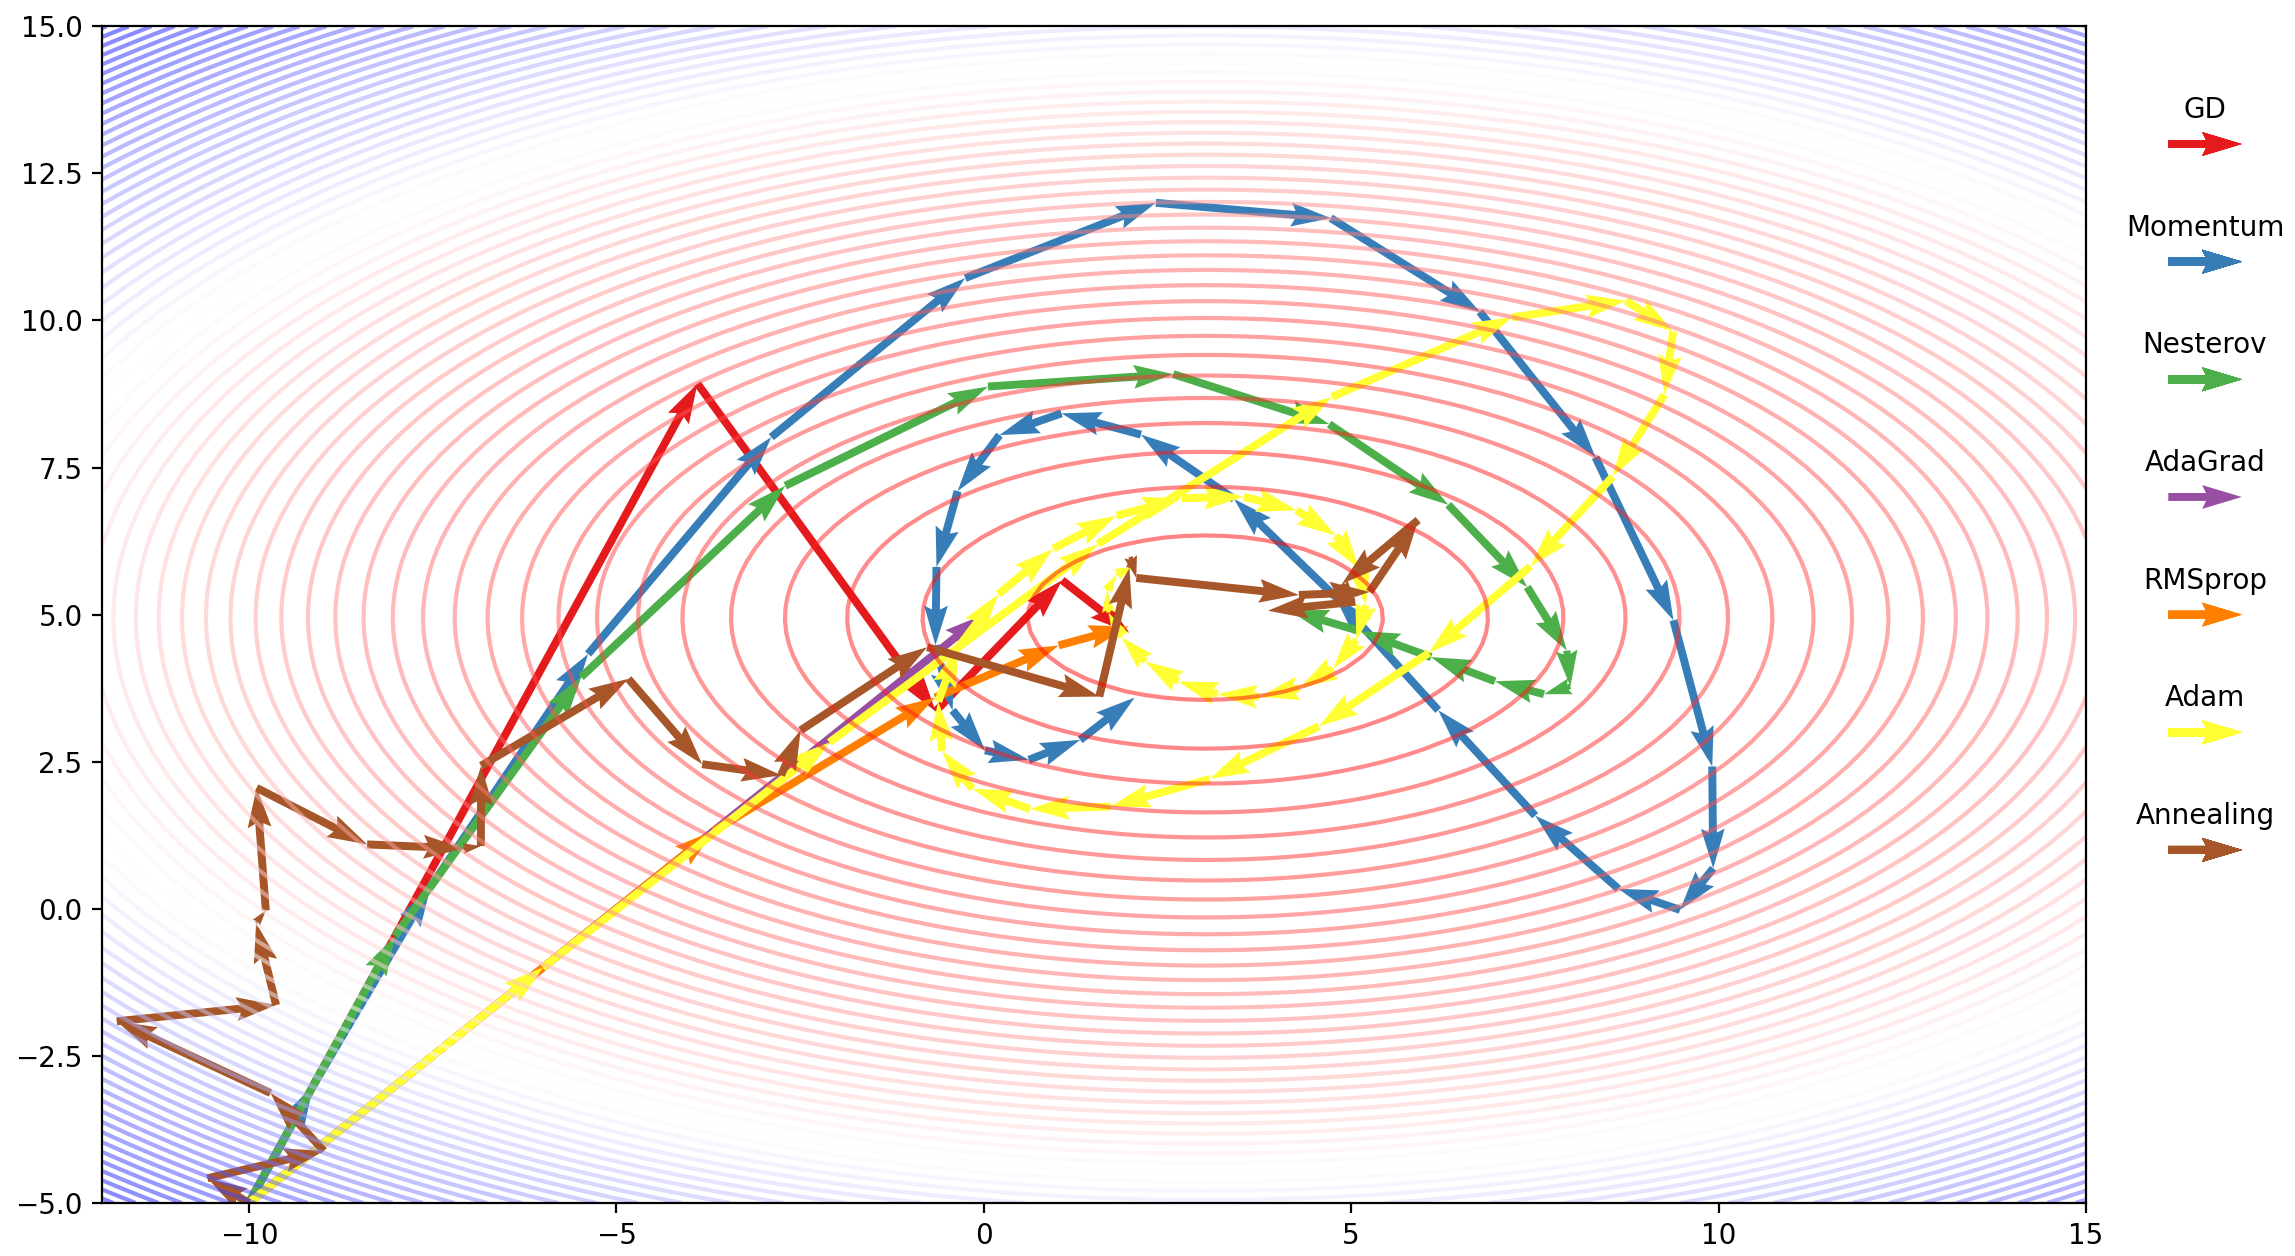
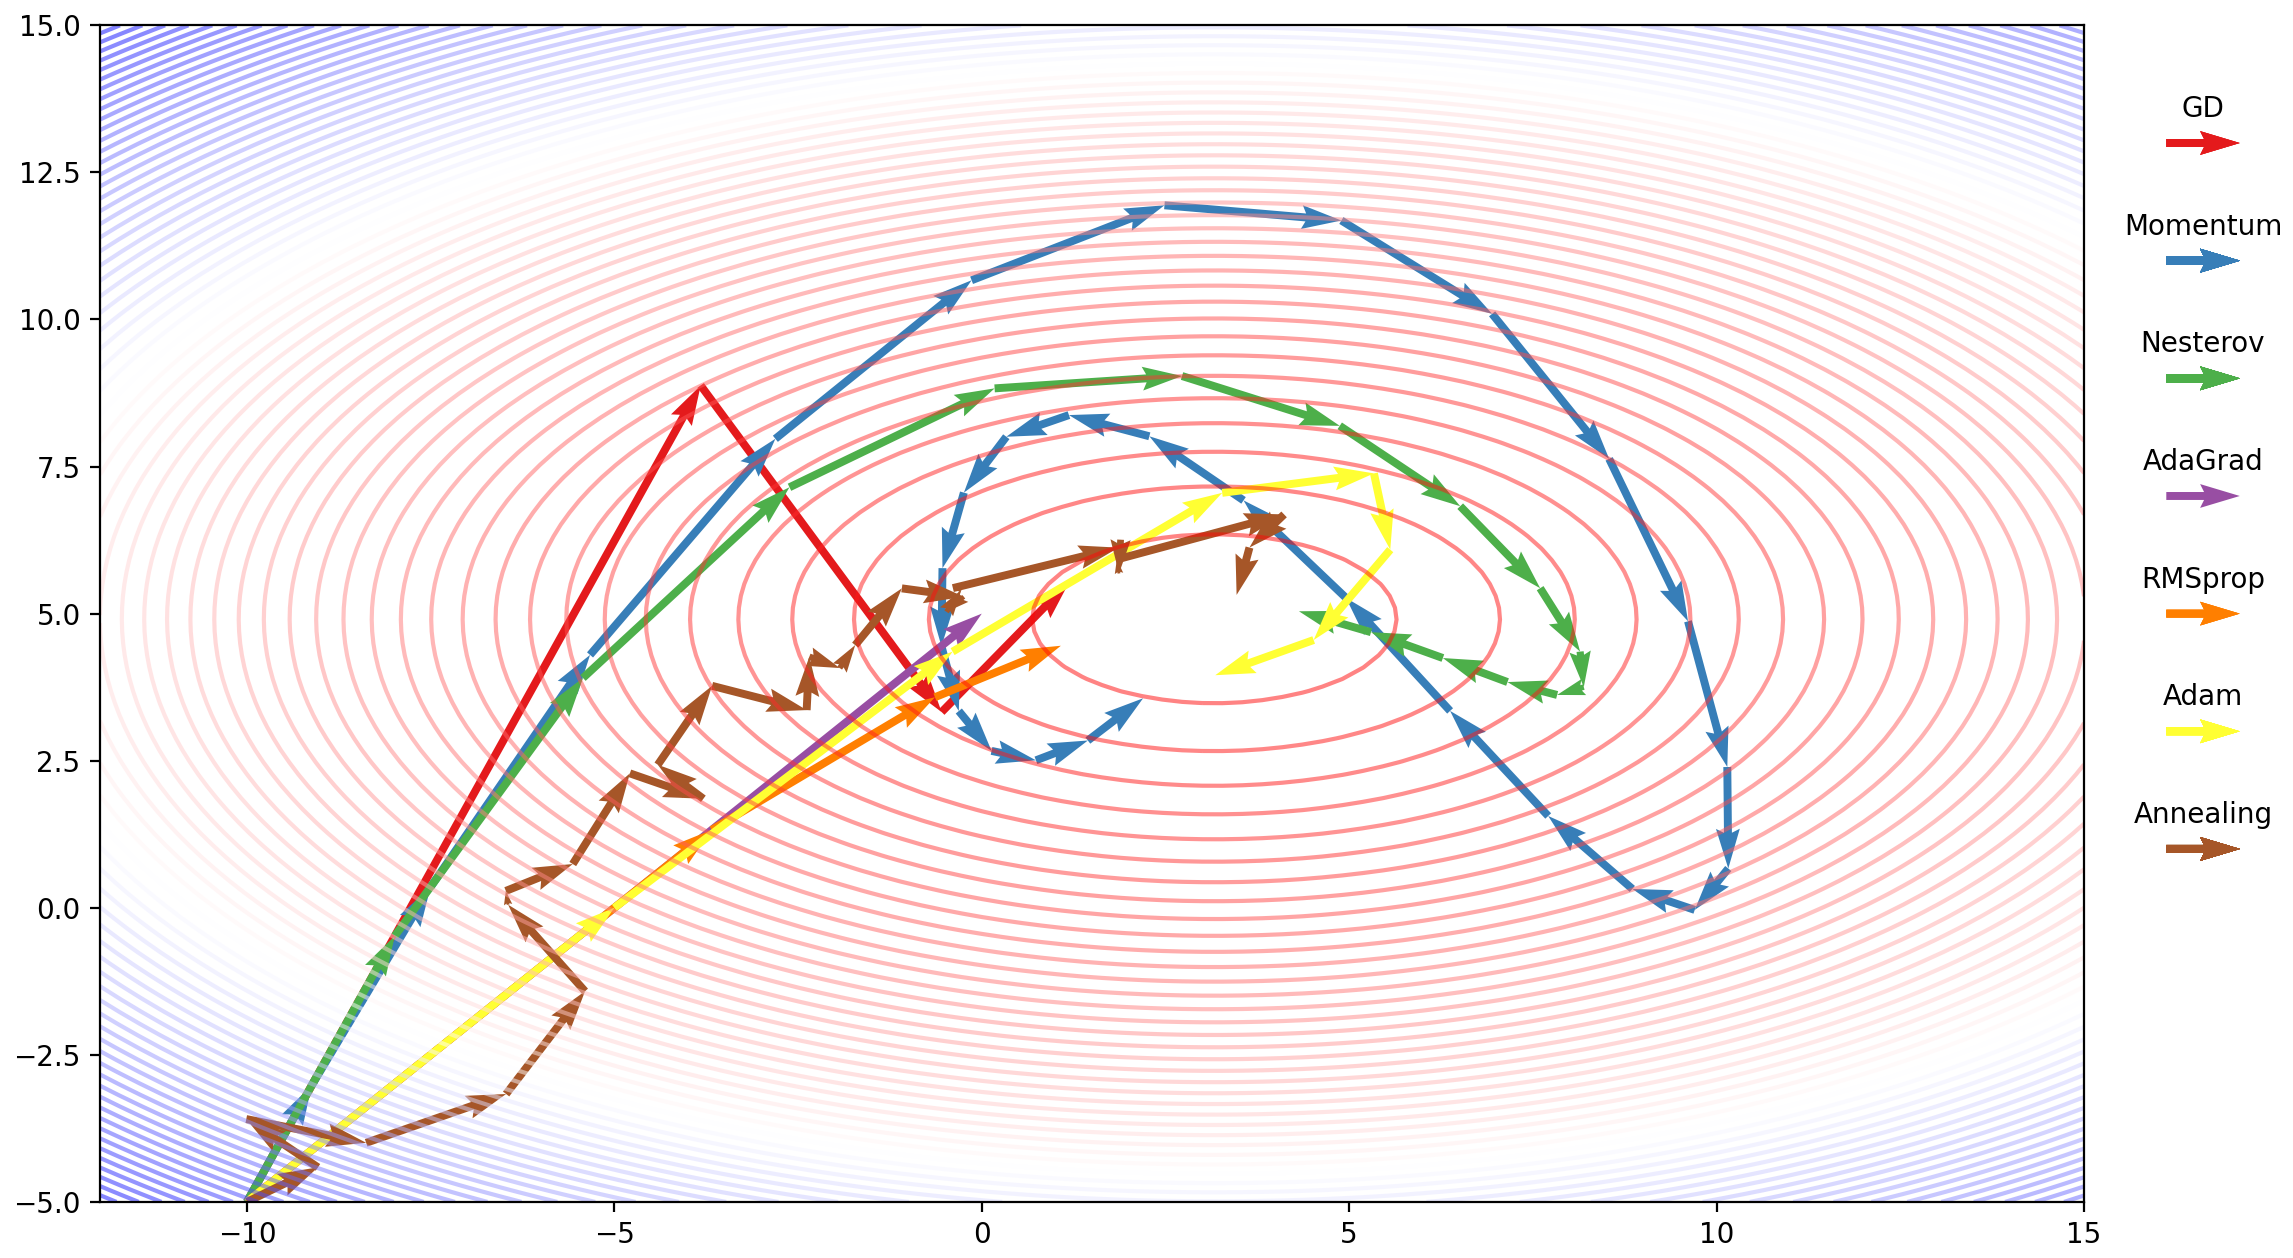
Ant colony algorithm

Changed region(s): [[0.0, 0.1242, 0.9908, 0.9936], [0.0, 0.0, 0.9289, 0.2795], [0.9289, 0.1553, 0.9908, 0.1863]]

diff --git a/ant_colony.py b/ant_colony.py
@@ -1,0 +1,83 @@
+import numpy as np
+import matplotlib.pyplot as plt
+# ant colony for traveling salesman problem
+
+
+class ACO(object):
+
+    def __init__(self, nodes):
+        self.n_node = nodes.shape[0]
+        self.pheromone = np.ones((self.n_node, self.n_node))
+        self.n_ants = 50
+        self.rho = 0.1
+        self.alpha = 1
+        self.beta = 2
+        self.q = 50
+        self.distance = np.array([
+            np.sqrt(np.square(nodes[i] - nodes[j]).sum())
+            for j in range(self.n_node) for i in range(self.n_node)
+        ]).reshape(self.n_node, -1)
+        self.dist_inv_beta = np.array([
+            np.power(np.square(nodes[i] - nodes[j]).sum(), -self.beta / 2)
+            if i != j else 0
+            for j in range(self.n_node) for i in range(self.n_node)
+        ]).reshape(self.n_node, -1)
+
+    def generate_path(self):
+        # pick random init node
+        this_id, next_id = -1, np.random.choice(np.arange(self.n_node))
+        visited_ids = [next_id]
+        this_distance = 0
+        for _ in range(self.n_node - 1):
+            this_id = next_id
+            # available_nodes
+            p = np.power(self.pheromone[this_id],
+                         self.alpha) * self.dist_inv_beta[this_id]
+            p[visited_ids] = 0
+            next_id = np.random.choice(self.n_node, 1, p=p / np.sum(p))[0]
+            this_distance += self.distance[this_id, next_id]
+            visited_ids.append(next_id)
+        this_distance += self.distance[next_id, visited_ids[0]]
+        visited_ids.append(visited_ids[0])
+        return visited_ids, this_distance
+
+    def update_pheromone(self, paths, dists):
+        self.pheromone *= (1 - self.rho)
+        for path, dist in zip(paths, dists):
+            for this_id, next_id in zip(path[1:], path[:-1]):
+                self.pheromone[
+                    this_id, next_id] += self.q * dist
+
+    def optimize(self):
+        best_path = []
+        min_distance = np.inf
+        for _ in range(100):
+            paths, dists = [], []
+            for _ in range(self.n_ants):
+                this_path, this_distance = self.generate_path()
+                paths.append(this_path)
+                dists.append(this_distance)
+                if min_distance > this_distance:
+                    best_path = this_path
+                    min_distance = this_distance
+            self.update_pheromone(paths, dists)
+        return best_path, min_distance
+
+
+def main():
+    nodes = np.array([[565.0, 575.0], [25.0, 185.0], [345.0, 750.0], [945.0, 685.0], [845.0, 655.0], [880.0, 660.0], [25.0, 230.0], [525.0, 1000.0], [580.0, 1175.0], [650.0, 1130.0], [1605.0, 620.0], [1220.0, 580.0], [1465.0, 200.0], [1530.0, 5.0], [845.0, 680.0], [725.0, 370.0], [145.0, 665.0], [415.0, 635.0], [510.0, 875.0], [560.0, 365.0], [300.0, 465.0], [520.0, 585.0], [480.0, 415.0], [835.0, 625.0], [975.0, 580.0], [1215.0, 245.0], [
+                     1320.0, 315.0], [1250.0, 400.0], [660.0, 180.0], [410.0, 250.0], [420.0, 555.0], [575.0, 665.0], [1150.0, 1160.0], [700.0, 580.0], [685.0, 595.0], [685.0, 610.0], [770.0, 610.0], [795.0, 645.0], [720.0, 635.0], [760.0, 650.0], [475.0, 960.0], [95.0, 260.0], [875.0, 920.0], [700.0, 500.0], [555.0, 815.0], [830.0, 485.0], [1170.0, 65.0], [830.0, 610.0], [605.0, 625.0], [595.0, 360.0], [1340.0, 725.0], [1740.0, 245.0]])
+    aco = ACO(nodes)
+    best_path, min_distance = aco.optimize()
+    print('best path:', best_path, 'length:', min_distance)
+    plt.scatter(nodes[:, 0], nodes[:, 1])
+
+    pos = nodes[best_path]
+    angles = pos[1:] - pos[:-1]
+    plt.quiver(pos[:-1, 0], pos[:-1, 1], angles[:, 0], angles[:, 1],
+               scale_units='xy', angles='xy', scale=1, width=0.004)
+    plt.show()
+
+
+if __name__ == "__main__":
+    main()

diff --git a/optimization_visualization.py b/optimization_visualization.py
@@ -1,7 +1,7 @@
 import numpy as np
 import matplotlib.pyplot as plt
 # implements and visualize Gradient Descent, Momentum, Nesterov, AdaGrad,
-# RMSprop, Adam, and Annealing Simulation
+# RMSprop, Adam, and Simulated Annealing
 
 
 class Optimization(object):
@@ -9,7 +9,7 @@ class Optimization(object):
     def __init__(self):
         self.optimizers = {'GD': self.gradient_descent, 'Momentum': self.momentum, 'Nesterov': self.nesterov,
                            'AdaGrad': self.adagrad, 'RMSprop': self.rmsprop, 'Adam': self.adam}
-        self.gamma = 0.9
+        self.gamma = 0.8
         self.eps = 1e-8
         self.reset()
 
@@ -44,8 +44,8 @@ class Optimization(object):
             (np.sqrt(self.cache) + self.eps)
 
     def adam(self, grad):
-        beta1 = 0.9
-        beta2 = 0.999
+        beta1 = 0.5
+        beta2 = 0.8
         self.mom = beta1 * self.mom + (1 - beta1) * grad
         self.cache = beta2 * self.cache + (1 - beta2) * np.square(grad)
         self.pos -= self.learning_rate * self.mom / \
@@ -55,7 +55,7 @@ class Optimization(object):
 
     def optimize(self, opt_algo, grad_func, x, y):
         trace = [self.pos.copy()]
-        for i in range(40):
+        for i in range(30):
             grad = grad_func(self.pos, x, y)
             self.optimizers[opt_algo](grad)
             if np.sum(np.square(self.pos - np.array([3, 5]))) < 1:
@@ -119,7 +119,7 @@ def main():
         w_mesh.shape), 70, cmap='bwr_r', alpha=0.5)
     opt = Optimization()
     an = Annealing()
-    for i, opt_algo, lr in zip(range(7), ['GD', 'Momentum', 'Nesterov', 'AdaGrad', 'RMSprop', 'Adam', 'Annealing'], [0.0035, 0.0005, 0.0006, 10, 2, 4, 0.5]):
+    for i, opt_algo, lr in zip(range(7), ['GD', 'Momentum', 'Nesterov', 'AdaGrad', 'RMSprop', 'Adam', 'Annealing'], [0.0035, 0.0005, 0.0006, 10, 2, 5, 0.5]):
         if opt_algo == 'Annealing':
             trace = an.annealing(x_expand, y)
         else:

diff --git a/README.md b/README.md
@@ -1,6 +1,6 @@
 # Simple-Implementation-of-ML-Algorithms
 ### My simplest implementations of common ML algorithms from scratch.
-* Most commonly used algorithms in Deep Learning, Ensemble Learning, Reinforcement Learning, Optimization Algorithms, Swarm Intelligence Algorithm, and other basic ML algorithms (see below list for more details).
+* Most commonly used algorithms including Regressions, Bayes Models, Deep Learning, Ensemble Learning, Reinforcement Learning, Optimization Algorithms, Swarm Intelligence Algorithm, Heuristic Search, Markov Model, and other basic ML algorithms (see below list for more details).
 * For an easy understanding, most of the codes implements only minimal version of the algorithm.
 * The implementation uses only numpy.
 * Most algorithms are within 100 lines of codes.
@@ -70,6 +70,9 @@
         * Deep Belief Network (DBN) `deep_belief_network.py`
         * Variational autoencoder (VAE) `variational_autoencoder.py`
         * Generative Adversarial Network (GAN) `generative_adversarial_network.py`
+            * Vanilla GAN
+            * Deep Convolutional GAN (DCGAN)
+            * discriminator vs generator
     * Reinforcement Learning
         * Deep Q-Network (DQN) `deep_q_network.py`
 * Layers `nn_layers.py` / `simple_cnn_layers.py`
@@ -93,14 +96,16 @@
     * L1/L2 Regularization
     * Gradient check
 
-#### Optimization Algorithms `optimization_visualization.py` / `multilayer_perceptron.py`
-* Stochastic Gradient Descent
-* Gradient Descent with Momentum
-* Nesterov Momentum
-* AdaGrad
-* RMSProp
-* Adam
-* Annealing Simulation
+#### Optimization Algorithms
+* Gradient Descent and variations `optimization_visualization.py` / `multilayer_perceptron.py`
+    * Stochastic Gradient Descent
+    * Gradient Descent with Momentum
+    * Nesterov Momentum
+    * AdaGrad
+    * RMSProp
+    * Adam
+* Monte Carlo method for global optimum
+    * Simulated annealing  `optimization_visualization.py`
 
 #### Other Supervised Models
 * k-Nearest Neighbors (kNN) `k_nearest_neighbors.py`
@@ -110,14 +115,13 @@
     * Different heuristics for selecting pairs in SMO
 
 #### Swarm Intelligence
-* Evolutionary / Genetic Algorithm (EA) `evolutionary_algorithm.py`
-    * Training a NN model
+* Evolutionary Algorithm (EA) `evolutionary_algorithm.py`
+    * Training a NN model by Genetic Algorithm
     * Selection by Fitness
     * Crossover approaches
     * Mutation rate
-* Particle Swarm Optimization (PSO) (WIP)
-* Differential Evolution (DE) (WIP)
-* Ant Colony Optimization (ACO) (WIP)
+* Ant Colony Optimization (ACO)
+    * Traveling Salesman Problem
 
 #### Markov Model
 * Hidden Markov Model `hidden_markov_model.py`
